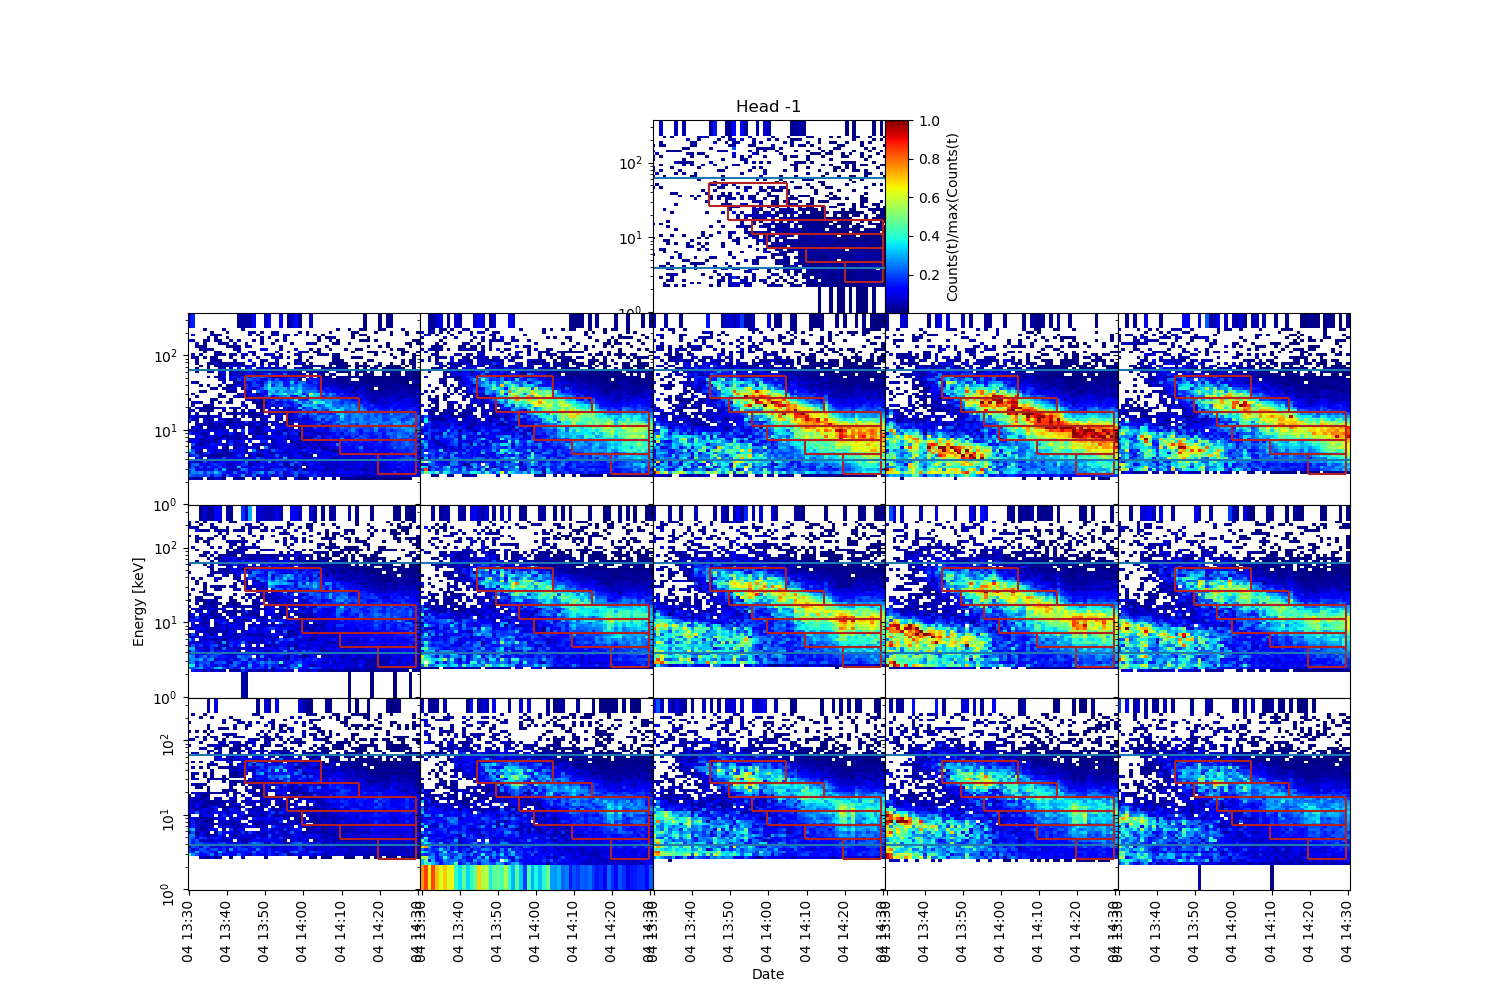
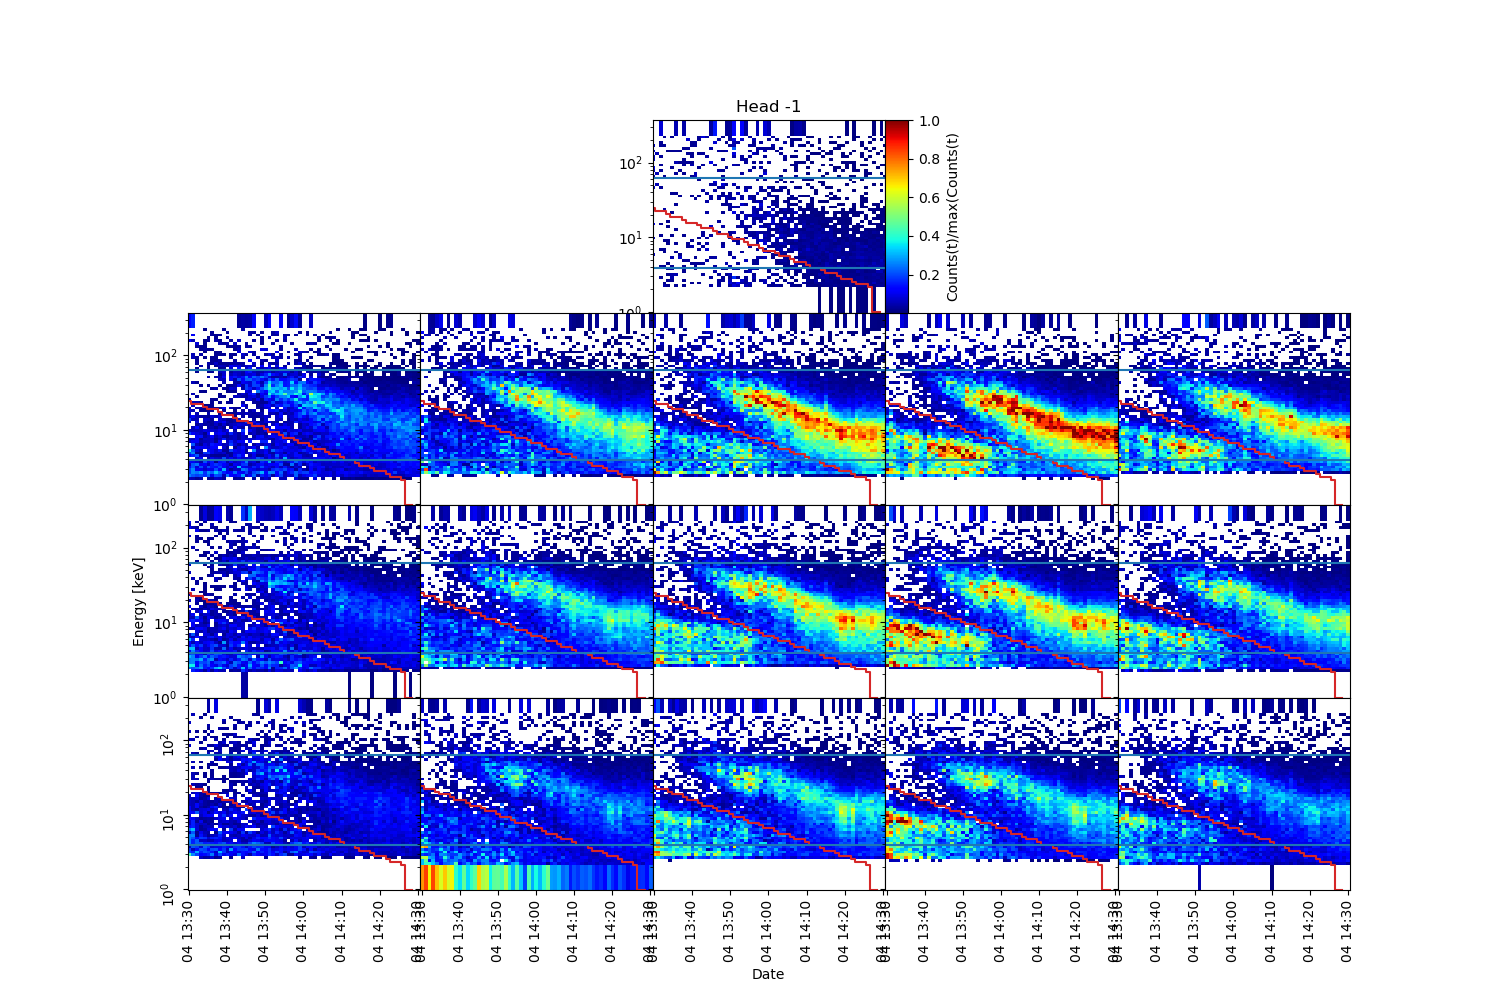
Berechnung der Energiemittelwerte muss noch angepasst werden...

diff --git a/STEP.py b/STEP.py
@@ -329,13 +329,13 @@ class STEP():
                 elif norm == 'emax':
                     tmp = ax[i].pcolormesh(ptime,ebins,(pdat/vmax).T, cmap = cmap, vmin = np.amin(1/vmax)*0.99,vmax = 1.)
                 
-            if grenzfunktion != None:
+            if callable(grenzfunktion):
                 x_ind = np.arange(len(ptime))
-                y_ind = grenzfunktion(x_ind)
-                ayuda_mask = (y_ind < len(ebins)-1) * (y_ind > 0)
+                y_ind = (np.rint(grenzfunktion(x_ind))).astype(int)
+                ayuda_mask = (y_ind < len(ebins)-1) * (y_ind >= 0)
                 x = ptime[ayuda_mask]
-                y = ebins[y_ind]
-                ax[i].step(x,y,where='post')
+                y = ebins[y_ind[ayuda_mask]]
+                ax[i].step(x,y,where='post',color='tab:red')
             
             # PLots der Boxen, Grenzen als  Indizes übergeben.
             # Erster Index von pdat müsste die Zeitreihe sein, der zweite der Energie-Bin.
@@ -387,9 +387,12 @@ class STEP():
         i = 0
         pixel_means = [[] for i in range(16)]     # Liste mit Listen der Mittelwerte der einzelnen Pixel. Die erste Liste enthält die Zeitstempel (jeweils Mitte der Zeitfenster)
         
-        if grenzfunktion != None:
+        if callable(grenzfunktion):
             little_helper_dat = np.array(self.data_prep(ebins,res,head,period,norm,overflow,esquare)[0])
             mask = self.create_masks(grenzfunktion=grenzfunktion,shape=little_helper_dat.shape)
+            print(little_helper_dat)
+            print(mask)
+            print(len(little_helper_dat[3][3]))
             if below == False:
                 mask = ~mask  # Tilde invertiert (logical-not)
             pldat = self.set_zero(little_helper_dat,mask)
@@ -430,7 +433,7 @@ class STEP():
         i = 0
         pixel_means = [[] for i in range(16)]     # Liste mit Listen der Mittelwerte der einzelnen Pixel. Die erste Liste enthält die Zeitstempel (jeweils Mitte der Zeitfenster)
         
-        if grenzfunktion != None:
+        if callable(grenzfunktion):
             little_helper_dat = np.array(self.data_prep(ebins,res,head,period,norm,overflow,esquare)[0])
             mask = self.create_masks(grenzfunktion=grenzfunktion,shape=little_helper_dat.shape)
             if below == False:

diff --git a/Runtime.py b/Runtime.py
@@ -71,7 +71,10 @@ period = (dt.datetime(2021,12,4,13,30),dt.datetime(2021,12,4,14,30))
 # Alte Berechnung über alle Daten:
 
 def grenz(t):
-    return -t**2 + 10
+    return -0.5*t + 29
+
+
+dat.plot_ts(period=period, head=-1, save='runtime_test2/', norm='tmax',grenzfunktion=grenz)
 
 pixel_means = dat.calc_energy_means(ebins=ebins,head=-1, period=period, grenzfunktion=grenz)
 pixel_means2 = dat.calc_energy_means(ebins=ebins,head=-1, period=period, grenzfunktion=grenz, window_width=1)
@@ -79,7 +82,6 @@ pixel_means2 = dat.calc_energy_means(ebins=ebins,head=-1, period=period, grenzfu
 dat.plot_energy_means(pixel_means,'runtime_test2/energy_means_5_minutes_pixel3_2021_12_04_adjust.png',pixel_list=[3])
 dat.plot_energy_means(pixel_means2,'runtime_test2/energy_means_1_minute_pixel3_2021_12_04_adjust.png',pixel_list=[3])
 
-dat.plot_ts(period=period, head=-1, save='runtime_test2/', norm='tmax',grenzfunktion=grenz)
 
 ### Berechnung mit Sliding-Window:
 
